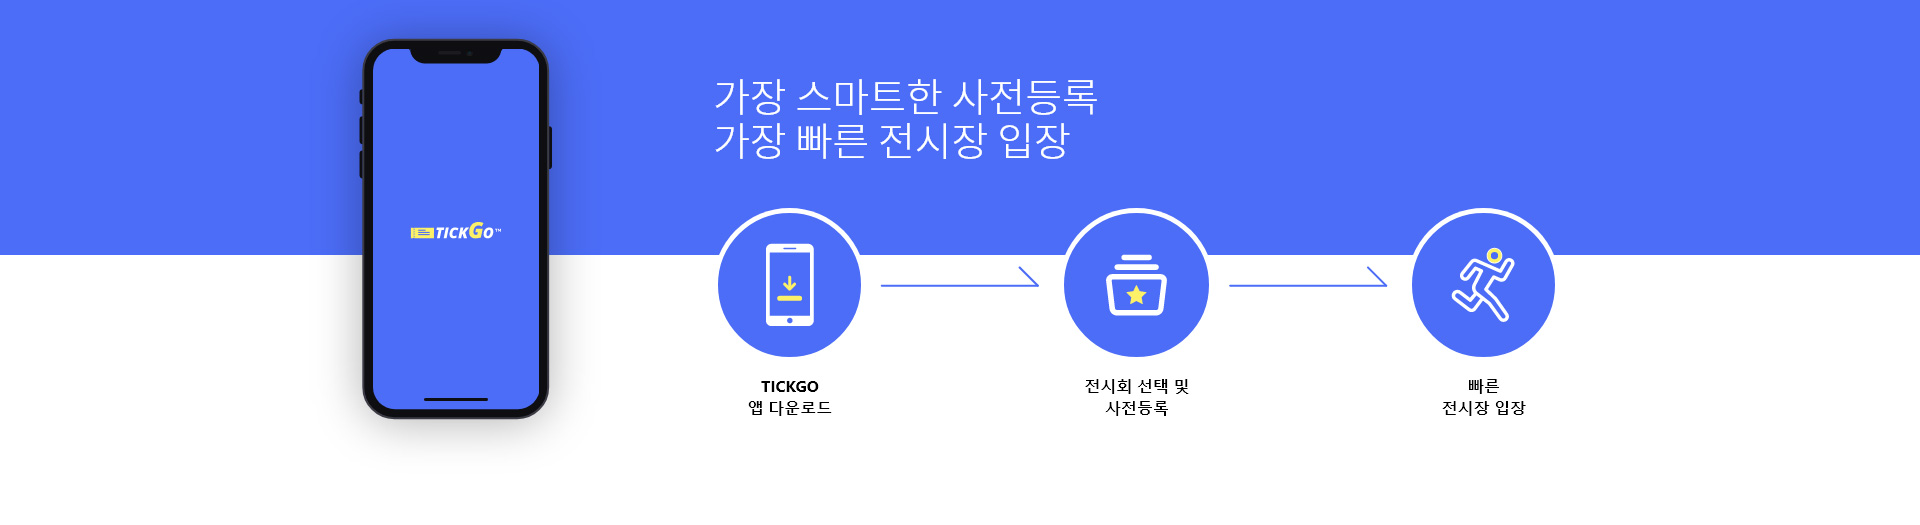
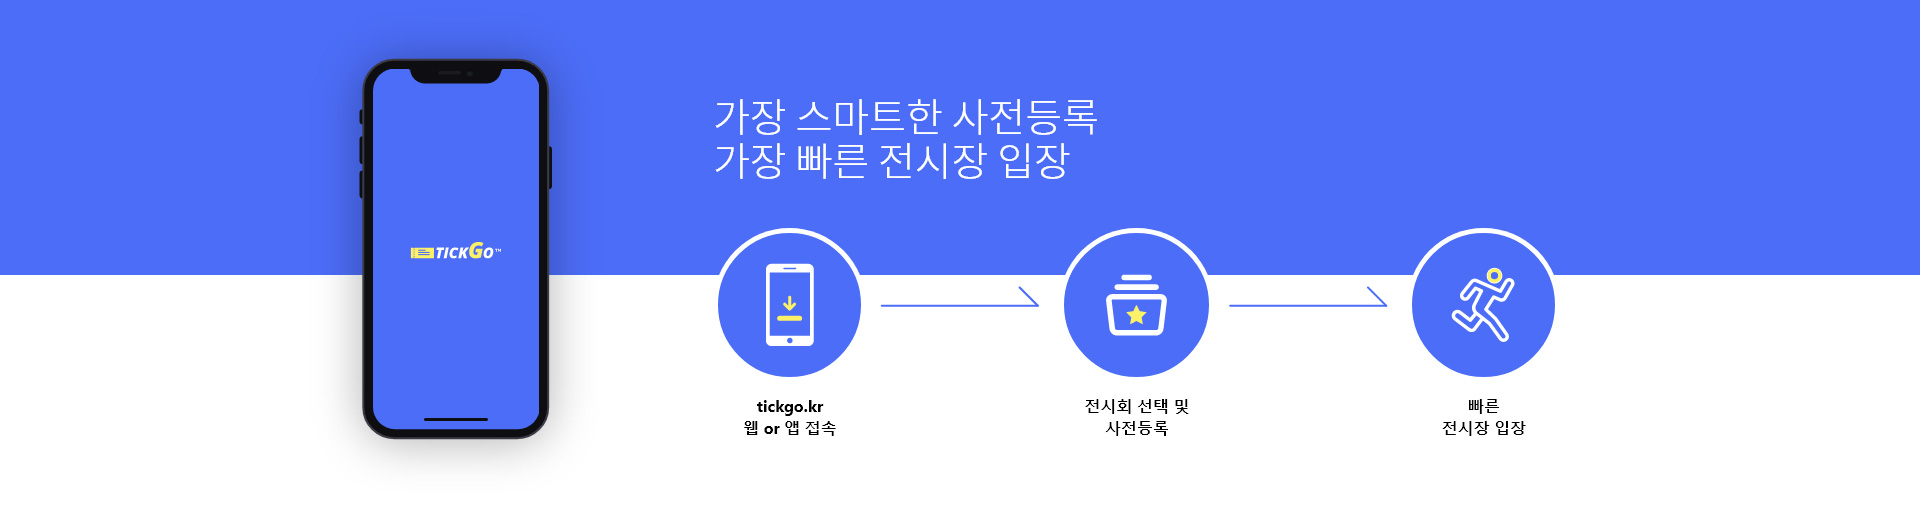
20191221수정01

diff --git a/css/sub.css b/css/sub.css
@@ -726,15 +726,15 @@ font-size:1.3rem;line-height:1.4;margin:0.7rem 0 1rem;word-break:break-all;}
 
 .signup_list li input {width:100%;border:0;border-bottom:1px solid #E8E8E8;font-size:1.2rem;padding: 1.2rem 0 1rem;line-height:1;transition:.3s all ease;box-sizing:border-box;margin-top:0.5rem;}
 .signup_list li input:focus {border-bottom:2px solid #4C6DF7;}
-.signup_list li input:read-only,
-.signup_list li input:disabled {border-bottom:1px solid #E8E8E8 !important;background-color: #fff;}
-.signup_list li input:disabled {background-color: #f5f5f5;}
-.signup_list li input:read-only {background-color: #e8e8e8;color:#8C8D8E;}
+.signup_list li input[readonly],
+.signup_list li input[disabled] {border-bottom:1px solid #E8E8E8 !important;background-color: #fff;}
+.signup_list li input[disabled] {background-color: #f5f5f5;}
+.signup_list li input[readonly] {background-color: #e8e8e8;color:#8C8D8E;}
 .signup_list li span {margin-top:0.5rem;display: none;}
 .signup_list li .help_message {color:#4C6DF7;font-size:1rem;line-height: 1.3;}
 .signup_list li input:focus ~ .help_message {display: block;}
 .signup_list li.error input:focus ~ .help_message {display: none;}
-.signup_list li input:read-only ~ .help_message {display: none;}
+.signup_list li input[readonly] ~ .help_message {display: none;}
 .signup_list li.error .error_message {display: block;}
 .signup_list li.error input,
 .signup_list li.error input:focus{border-bottom:2px solid #FF6280;}
@@ -921,6 +921,7 @@ font-size:1.3rem;line-height:1.4;margin:0.7rem 0 1rem;word-break:break-all;}
 .sub_wrap .use_guide_wrap .use_guide_mid .text p {margin-top:0.5rem;line-height:1.3;font-size:1rem;}
 .sub_wrap .use_guide_wrap .use_guide_mid .text .sns_bt {margin-top:1rem;max-width: 392px;}
 .sub_wrap .use_guide_wrap .use_more_conts {display:none;}
+.sub_wrap .use_guide_wrap .use_guide_mid .text .guide {color: #4c6df7;padding-left: 1rem;text-indent: -0.8rem;}
 
 .sub_wrap .use_guide_wrap .use_guide_mid .step0 {margin:0 0 3rem;}
 .sub_wrap .use_guide_wrap .use_guide_mid .step0 .text strong {color: #4c6df7;}
@@ -1995,8 +1996,8 @@ white-space: nowrap;padding: 1px 0;}
   .signup_list li > strong i {font-size: 16px;margin-left:5px;}
   .signup_list li input {font-size: 18px;border-bottom:2px solid #E8E8E8;margin-top:10px;padding:20px 0;}
   .signup_list li input:focus {border-bottom:3px solid #4C6DF7;}
-  .signup_list li input:read-only,
-  .signup_list li input:disabled {border-bottom:2px solid #E8E8E8 !important;}
+  .signup_list li input[readonly],
+  .signup_list li input[disabled] {border-bottom:2px solid #E8E8E8 !important;}
   .signup_list li span {margin-top:10px;font-size:15px;}
   .signup_list li.error input,
   .signup_list li.error input:focus{border-bottom:3px solid #FF6280;}
@@ -2163,6 +2164,7 @@ white-space: nowrap;padding: 1px 0;}
   .sub_wrap .use_guide_wrap .use_guide_mid .text .sns_bt {margin-top:15px;}
   .sub_wrap .use_guide_wrap .use_guide_top {position:relative;background:url("../images/banner/pc_use_guide_top.jpg") no-repeat top center;}
   .sub_wrap .use_guide_wrap .use_guide_top .inner {height:464px;font: 0/0 a;}
+  .sub_wrap .use_guide_wrap .use_guide_mid .text .guide {padding-left: 15px;text-indent: -13px;width: 610px;margin: 10px 0;}
 
   .sub_wrap .use_guide_wrap .use_guide_mid .step0 {margin:100px 0;}
   .sub_wrap .use_guide_wrap .use_guide_mid .step0 + .step0 {margin-top: -65px;}

diff --git a/html/regi_guide.html b/html/regi_guide.html
@@ -84,8 +84,11 @@
                         <div class="inner">
                             <div class="text">
                                 <b>STEP1</b>
-                                <strong>TICKGO 앱을 설치후 회원가입</strong>
-                                <p>tickgo의 원스탑 회원가입은 간편회원가입뿐 아닌 다양한 SNS 계정을 통한 회원가입도 가능하여 더욱 편리합니다.</p>
+                                <strong>tickgo.kr 웹 or 앱 접속 후 회원가입</strong>
+                                <p>TICKGO의 원스탑 회원가입은 간편회원가입뿐 아닌 다양한 SNS 계정을 통한 회원가입도 가능하여 더욱 편리합니다.</p>
+                                <p class="guide">
+                                    ※ TICKGO 앱은 구글 플레이스토어 및 애플 앱스토어의 심사완료 후 순차적으로 등록완료 예정이며, 등록완료 시 아래 링크를 통해 다운로드 받으실 수 있습니다.
+                                </p> 
                                 <div class="hasmap-wrap sns_bt">
                                     <img src="../images/banner/use_guide_00_bt.jpg" alt="sns_bt">
                                     <a href="#" style="left:0%; top:0%; width:50%; height:100%;">애플</a>
@@ -129,7 +132,9 @@
                             <div class="inner">
                                 <div class="text">
                                     <b>STEP1</b>
-                                    <strong>TICKGO 앱을 설치후 <br/>회원가입</strong>
+                                    <strong>
+                                        tickgo.kr 웹 or 앱<br/>접속 후 회원가입
+                                    </strong>
                                     <p>TICKGO의 원스탑 회원가입은 간편회원가입뿐 아닌 다양한 SNS 계정을 통한 회원가입도 가능하여더욱 편리합니다.</p>
                                     <!--
                                     <div class="hasmap-wrap sns_bt">
